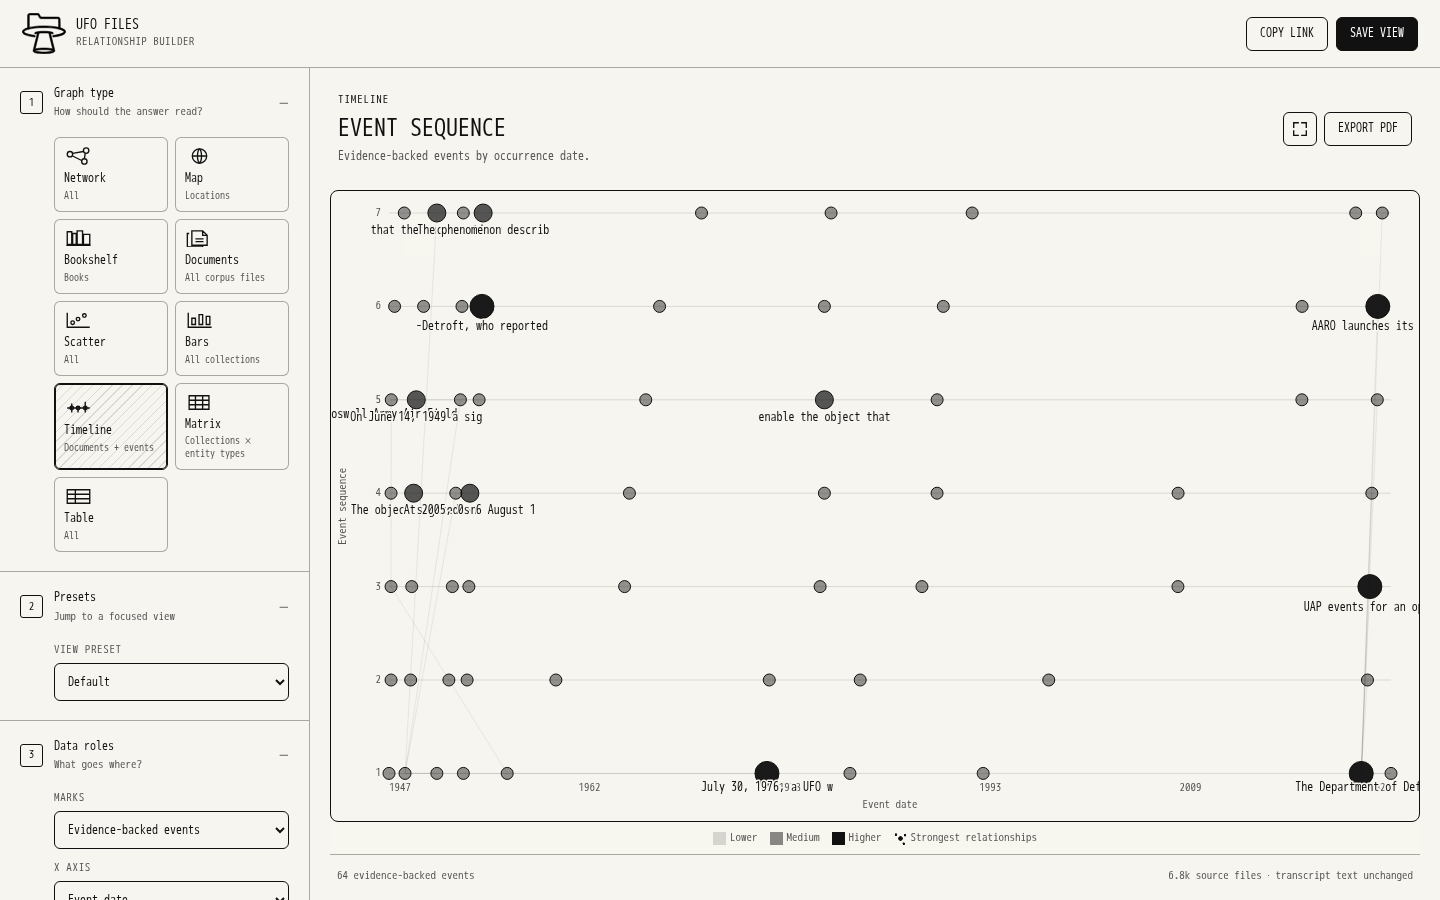
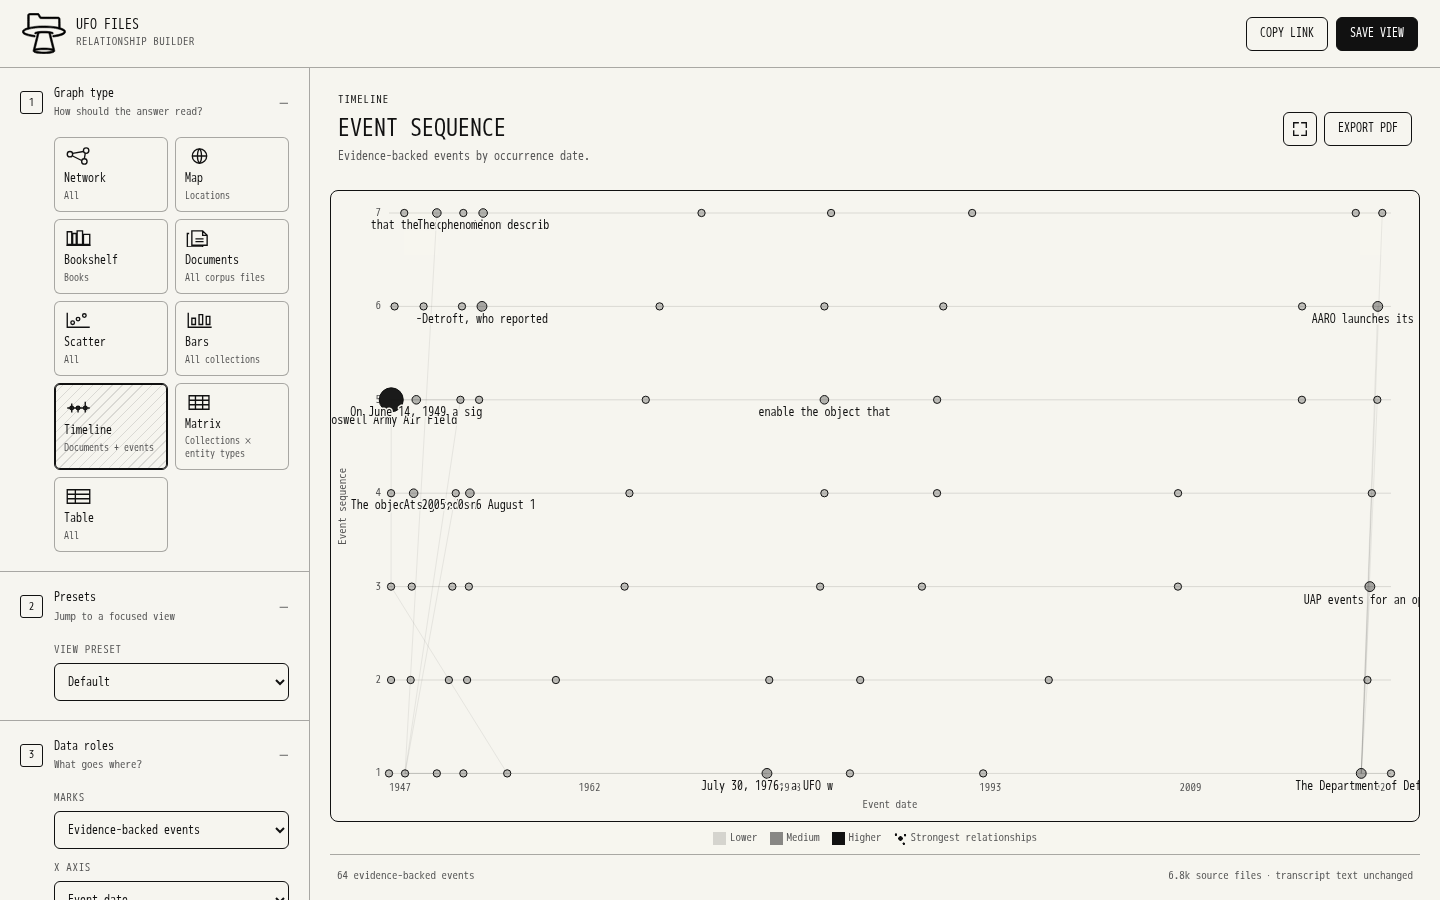
Aggregate reviewed Roswell evidence

diff --git a/scripts/build_catalog.py b/scripts/build_catalog.py
@@ -435,7 +435,7 @@ def merge_events(events: list[dict]) -> list[dict]:
     return merged
 
 
-def curated_events(path: Path, document_ids: dict[str, str]) -> list[dict]:
+def curated_events(path: Path, document_ids: dict[str, str], date_review: list[dict] | None = None) -> list[dict]:
     """Load reviewed historical milestones only when their source document is present."""
     if not path.exists():
         return []
@@ -448,6 +448,27 @@ def curated_events(path: Path, document_ids: dict[str, str]) -> list[dict]:
         if not document_id or not date or not item.get("title") or not item.get("eventType"):
             continue
         excerpt = clean_space(str(item.get("evidence", "")))[:280]
+        supporting_ids = {document_id}
+        supporting_evidence = [{"documentId": document_id, "excerpt": excerpt}]
+        match_terms = [comparison_key(term) for term in item.get("matchTerms", [])]
+        match_kinds = set(item.get("matchCandidateKinds", ["event_date", "unknown", "referenced_document_date"]))
+        if match_terms:
+            for record in date_review or []:
+                candidate_document_id = record.get("documentId")
+                if not candidate_document_id:
+                    continue
+                for candidate in record.get("candidates", []):
+                    context = comparison_key(f"{record.get('path', '')} {candidate.get('evidence', '')}")
+                    if (candidate.get("value") == date and candidate.get("kind") in match_kinds
+                            and all(term in context for term in match_terms)):
+                        supporting_ids.add(candidate_document_id)
+                        if len(supporting_evidence) < 5:
+                            supporting_evidence.append({
+                                "documentId": candidate_document_id,
+                                **({"segment": candidate["segment"]} if "segment" in candidate else {}),
+                                "excerpt": clean_space(candidate.get("evidence", ""))[:280],
+                            })
+                        break
         published.append({
             "id": stable_id("event", f"curated|{source_path}|{date}|{item['eventType']}"),
             "title": item["title"],
@@ -457,8 +478,8 @@ def curated_events(path: Path, document_ids: dict[str, str]) -> list[dict]:
             "datePrecision": "day",
             "confidence": 0.99,
             "reviewStatus": "curated",
-            "documentIds": [document_id],
-            "evidence": [{"documentId": document_id, "excerpt": excerpt}],
+            "documentIds": sorted(supporting_ids),
+            "evidence": supporting_evidence,
         })
     return published
 
@@ -1040,7 +1061,7 @@ def build(
 
     events = overlay_curated_events(
         events,
-        curated_events(data_dir / "curated_events.json", document_ids_by_path),
+        curated_events(data_dir / "curated_events.json", document_ids_by_path, date_review),
     )
     events = merge_events(events)
     accepted_candidates = {key: value for key, value in candidates.items() if accepted(value)}

diff --git a/tests/test_build_catalog.py b/tests/test_build_catalog.py
@@ -133,6 +133,28 @@ class ClassificationTests(unittest.TestCase):
             self.assertEqual(events[0]["documentIds"], ["doc-report"])
             self.assertEqual(events[0]["reviewStatus"], "curated")
 
+    def test_curated_milestone_aggregates_same_date_reviewed_contexts(self):
+        with tempfile.TemporaryDirectory() as directory:
+            registry = Path(directory) / "events.json"
+            registry.write_text(json.dumps({"events": [{
+                "title": "Roswell announcement", "startDate": "1947-07-08",
+                "eventType": "official_announcement", "sourcePath": "Roswell/source.txt",
+                "evidence": "Roswell reported recovery.", "matchTerms": ["Roswell"],
+            }]}), encoding="utf-8")
+            review = [
+                {"documentId": "doc-support", "path": "Archive/roswell-report.txt", "candidates": [
+                    {"value": "1947-07-08", "kind": "unknown", "segment": 2, "evidence": "Roswell issued a statement."}
+                ]},
+                {"documentId": "doc-admin", "path": "Archive/roswell-foia.txt", "candidates": [
+                    {"value": "1947-07-08", "kind": "administrative_date", "evidence": "Roswell FOIA processing date."}
+                ]},
+            ]
+
+            events = curated_events(registry, {"Roswell/source.txt": "doc-source"}, review)
+
+            self.assertEqual(events[0]["documentIds"], ["doc-source", "doc-support"])
+            self.assertEqual(events[0]["evidence"][1]["segment"], 2)
+
     def test_curated_milestone_replaces_matching_extraction(self):
         extracted = [{"id": "auto", "title": "Raw OCR", "startDate": "2017-12-16",
                       "eventType": "publication", "documentIds": ["doc-story"],

diff --git a/README.md b/README.md
@@ -77,7 +77,7 @@ The builder asks for five decisions:
 
 The default view is an ordinary builder configuration and uses the same rendering and data path as every saved view. Presets refine the currently selected graph type instead of replacing it: for example, applying Significant People to Network keeps the network layout and narrows its entities, while applying it to Map keeps the globe selected. Numeric scatter axes use a robust 95th-percentile cap only when the maximum is at least 50% beyond that cap; capped marks stay visible at the plot edge with a heavier outline and retain their exact values in the inspector and tooltip.
 
-The Timeline defaults to an event sequence rather than transcription activity. It includes physical incidents—observations, detections, encounters, landings, and crashes—plus source-backed disclosure, hearing, program, publication, and official-report milestones. Every event requires an unambiguous day-level date and explicit surrounding language or a reviewed entry in `data/curated_events.json`; a curated milestone is published only when its cited source document is present. The most important event labels appear bottom-centered by default, following the other chart views, and relationship lines connect events only when their supporting evidence shares a specific published person, place, organization, agency, or program; chronological adjacency alone never creates a link. Trusted source metadata and document headers may separately establish a document date. FOIA processing, declassification boilerplate, archive accessions, and OCR or cataloging timestamps remain administrative dates and never position an event. Every accepted or rejected candidate retains its evidence, method, confidence, and semantic kind in `data/date_review.json`; low-confidence and unclassified dates remain review-only.
+The Timeline defaults to an event sequence rather than transcription activity. It includes physical incidents—observations, detections, encounters, landings, and crashes—plus source-backed disclosure, hearing, program, publication, and official-report milestones. Every event requires an unambiguous day-level date and explicit surrounding language or a reviewed entry in `data/curated_events.json`; a curated milestone is published only when its cited source document is present. Reviewed milestones may aggregate independent same-date supporting documents through explicit match terms and allowed semantic kinds, while relative and administrative dates remain excluded. The most important event labels appear bottom-centered by default, following the other chart views, and relationship lines connect events only when their supporting evidence shares a specific published person, place, organization, agency, or program; chronological adjacency alone never creates a link. Trusted source metadata and document headers may separately establish a document date. FOIA processing, declassification boilerplate, archive accessions, and OCR or cataloging timestamps remain administrative dates and never position an event. Every accepted or rejected candidate retains its evidence, method, confidence, and semantic kind in `data/date_review.json`; low-confidence and unclassified dates remain review-only.
 
 Scatter plots, maps, and entity timelines can add a deduplicated relationship layer through Graph Properties. The layer can be off, hover-only, or always visible; it also exposes the strongest-connections limit, evidence floor, relationship type, secondary-node sizing, and line strength. Secondary entities retain their native position and appear only once even when several primary entities connect to them. Maps render elevated globe arcs, while entity timelines connect marks in date/value space. The default shows one strongest connection per node with an always-visible subtle line. These choices persist in saved-view URLs.
 
